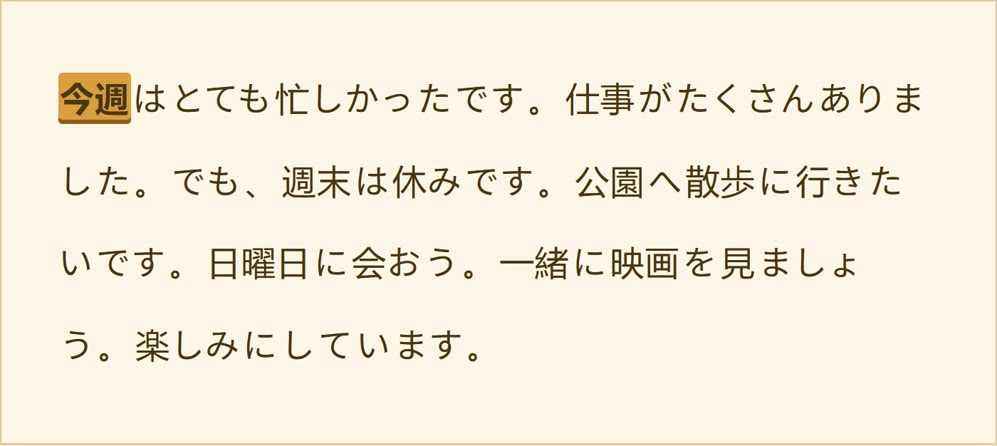
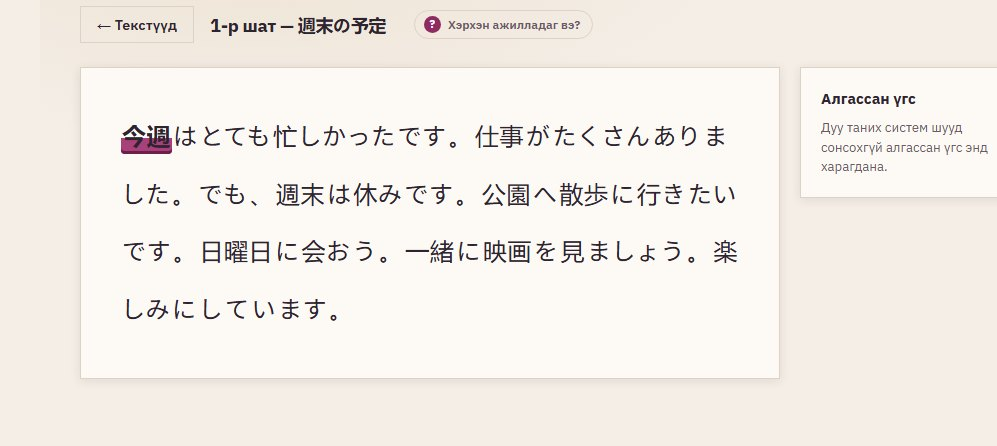
Repaint Dokkai Reader in plum instead of gold
The olive seal #5f6b1f and the amber-on-cream page are gone. The replacement hue was picked
by where the gap was rather than by taste: the six hub seals ran orange 20, red 9, teal 162,
blue 210 and violet 243, leaving 280-340 empty. Plum is also what a bound book is covered
in, which suits a reading tool.

Half the yellow was the ground, not the accent. Swapping only --accent would have left a
plum sitting on a custard page, so --bg-page came off #f7ecd2 to a near-neutral linen and
the ink, borders and shadows went plum-tinted with it.

Three files carry this colour: reading.css's token block, its --header-bg block and the
darker-contrast one, and the --seal literal on index.html's Reading tile. All three moved
together; a comment in reading.css that still named the old seal was corrected too.

images/hub/reading-enter.jpg is a screenshot of this page, ghosted in behind the seal on
hover -- so without re-shooting it the home page would show a gold screenshot behind a plum
seal. Re-taken by the same route tools/share-cards/capture-shots.js uses to reach the
passage, so it frames what their own generator picked.

images/share/reading.jpg is still the old palette and is NOT regenerated here: the two
scripts that rebuild it also rebuild every other tool's shot and card, and Facebook caches
previews, so it wants doing deliberately with a re-scrape after.

Measured, not eyeballed: every text element on the page in both themes, 0 of 44 below its
[…]

Changed region(s): [[0.0, 0.0, 1.0, 1.0], [0.0622, 0.5247, 0.8706, 0.6413], [0.0622, 0.6704, 0.4975, 0.8161]]

diff --git a/reading.css b/reading.css
@@ -34,38 +34,46 @@
    :has() here only ever matches reading.html, since .reading-main only exists there. */
 body:has(.reading-main),
 .reading-main {
-    --bg-page: #f7ecd2;
-    --bg-page: light-dark(#f7ecd2, #191410);
-    --bg-surface: #fdf6e6;
-    --bg-surface: light-dark(#fdf6e6, #221b14);
-    --bg-surface-alt: #f0e0bc;
-    --bg-surface-alt: light-dark(#f0e0bc, #2b2219);
-    --border: #e0c690;
-    --border: light-dark(#e0c690, #3d3020);
-    --border-strong: #c9a563;
-    --border-strong: light-dark(#c9a563, #5a462c);
-    --text-primary: #4a3510;
-    --text-primary: light-dark(#4a3510, #f2e7d2);
-    --text-secondary: #7a6435;
-    --text-secondary: light-dark(#7a6435, #cdbb99);
-    /* was #a08a5c: 2.85:1 behind the "How this works" label, under the 4.5 floor */
-    --text-muted: #786845;
-    --text-muted: light-dark(#786845, #a3926f);
-    --accent: #b8791f;
-    --accent: light-dark(#b8791f, #d9a03f);
-    --accent-light: #d99f3f;
-    --accent-light: light-dark(#d99f3f, #e8bd6d);
-    /* was #8f5c14: 4.12:1 on the mic and guest hints' tinted panel, just under the floor */
-    --accent-dark: #855613;
-    --accent-dark: light-dark(#855613, #e8bd6d);
-    --accent-tint: rgba(184, 121, 31, 0.16);
-    --accent-tint: light-dark(rgba(184, 121, 31, 0.16), rgba(217, 160, 63, 0.18));
+    /* "Plum cloth": a bound-book palette -- near-neutral linen paper, plum ink, one aubergine
+       accent. It replaced a warm-gold/olive scheme the site's author called piss yellow, and the
+       hue was chosen by where the gap was rather than by taste: the six hub seals ran orange 20,
+       red 9, teal 162, blue 210 and violet 243, leaving 280-340 empty. The paper also came off
+       #f7ecd2 to a near-neutral linen -- half the yellow was the GROUND, not the accent, and
+       swapping only the accent would have left a plum sitting on a custard page. */
+    --bg-page: #f4eee7;
+    --bg-page: light-dark(#f4eee7, #171017);
+    --bg-surface: #fdfaf6;
+    --bg-surface: light-dark(#fdfaf6, #201822);
+    --bg-surface-alt: #eae1d6;
+    --bg-surface-alt: light-dark(#eae1d6, #2a1f2c);
+    --border: #ded2c5;
+    --border: light-dark(#ded2c5, #3b2c3c);
+    --border-strong: #bda894;
+    --border-strong: light-dark(#bda894, #5a4459);
+    --text-primary: #2e2430;
+    --text-primary: light-dark(#2e2430, #f2e7ee);
+    --text-secondary: #5b4a57;
+    --text-secondary: light-dark(#5b4a57, #cdb9c6);
+    /* Both of this token's old values sat just under 4.5 before they were raised; measured
+       again on the new grounds: 5.05-6.28 light, 5.35-6.34 dark. */
+    --text-muted: #6b5866;
+    --text-muted: light-dark(#6b5866, #a391a0);
+    --accent: #8f2b63;
+    --accent: light-dark(#8f2b63, #d471a6);
+    --accent-light: #a8407a;
+    --accent-light: light-dark(#a8407a, #e894c0);
+    --accent-dark: #6b1f4a;
+    --accent-dark: light-dark(#6b1f4a, #e894c0);
+    --accent-tint: rgba(143, 43, 99, 0.14);
+    --accent-tint: light-dark(rgba(143, 43, 99, 0.14), rgba(212, 113, 166, 0.18));
+    /* --accent-light is the LIGHTEST stop, so it is the one the cream label has to clear: 5.49.
+       Grammar Connect shipped a 2.13:1 button by checking only the dark stop. */
     --accent-gradient: linear-gradient(135deg, var(--accent-light), var(--accent));
     --accent-gradient-hover: linear-gradient(135deg, var(--accent), var(--accent-dark));
-    --shadow-sm: 0 2px 10px rgba(74, 53, 16, 0.10);
-    --shadow-sm: 0 2px 10px light-dark(rgba(74, 53, 16, 0.10), rgba(0, 0, 0, 0.45));
-    --shadow-md: 0 14px 32px rgba(74, 53, 16, 0.18);
-    --shadow-md: 0 14px 32px light-dark(rgba(74, 53, 16, 0.18), rgba(0, 0, 0, 0.55));
+    --shadow-sm: 0 2px 10px rgba(46, 36, 48, 0.10);
+    --shadow-sm: 0 2px 10px light-dark(rgba(46, 36, 48, 0.10), rgba(0, 0, 0, 0.45));
+    --shadow-md: 0 14px 32px rgba(46, 36, 48, 0.18);
+    --shadow-md: 0 14px 32px light-dark(rgba(46, 36, 48, 0.18), rgba(0, 0, 0, 0.55));
 }
 
 body:has(.reading-main) {
@@ -763,7 +771,8 @@ body:has(.reading-main) .container {
 
 /* ---------------------------------------------------------------------------------------------
    Masthead and footer carry this tool's own colour: exactly the seal index.html gives this page
-   (#5f6b1f), so the button pressed on the home page and the page it opens are the same colour.
+   (#6b1f52), so the button pressed on the home page and the page it opens are the same colour.
+   Changing one means changing the other in the same commit, or they drift apart silently.
    This used to be that seal DEEPENED to 68%, which is precisely what made them not match.
 
    The ground is therefore fixed now, so everything set on it had to move instead. --header-accent
@@ -780,17 +789,17 @@ body:has(.reading-main) .container {
    --------------------------------------------------------------------------------------------- */
 .site-header-wrap,
 .site-footer {
-    --header-bg: #5f6b1f;
-    --header-bg-elevated: #657128;
-    --header-accent: #f4e1bc;
-    --header-accent-dark: #d2c2a2;
-    --header-text-muted: #ece6d8;
-    --header-accent-tint: rgba(244, 225, 188, 0.18);
-    --header-border: rgba(244, 225, 188, 0.36);
+    --header-bg: #6b1f52;
+    --header-bg-elevated: #7a2a5f;
+    --header-accent: #f6dcea;
+    --header-accent-dark: #cfa7bd;
+    --header-text-muted: #f0e2ea;
+    --header-accent-tint: rgba(246, 220, 234, 0.18);
+    --header-border: rgba(246, 220, 234, 0.36);
 }
 
 html[data-contrast="darker"] .site-header-wrap,
 html[data-contrast="darker"] .site-footer {
-    --header-bg: #373e12;
-    --header-bg-elevated: #5f6b1f;
+    --header-bg: #3e1230;
+    --header-bg-elevated: #6b1f52;
 }

diff --git a/index.html b/index.html
@@ -457,7 +457,7 @@
                             </span>
                         </a>
 
-                        <a class="hub-seal" href="reading.html" style="--seal:#5f6b1f">
+                        <a class="hub-seal" href="reading.html" style="--seal:#6b1f52">
                             <span class="hub-seal-shot" aria-hidden="true" style="background-image:url(images/hub/reading-enter.jpg)"></span>
                             <span class="hub-seal-in">
                                 <svg class="hub-seal-ico" aria-hidden="true"><use href="#t-reader"/></svg>

diff --git a/sw.js b/sw.js
@@ -18,7 +18,7 @@
 // stale-while-revalidate, so it serves the cached copy first and only refreshes behind it --
 // without a bump, a returning PWA user runs the previous version of a fixed file for one more
 // visit. Whether that matters is a judgement call; for a correctness fix it generally does.
-const CACHE_VERSION = 'khan-japanese-v186';
+const CACHE_VERSION = 'khan-japanese-v187';
 
 const APP_SHELL = [
     './',

diff --git a/CLAUDE.md b/CLAUDE.md
@@ -45,8 +45,9 @@ at all, and `reset-password.html`); `credits.html` itself carries the masthead+f
 **Their colour is per-tool, though** (2026-10-24): each of the six tool pages puts
 `--header-bg` on `.site-header-wrap`/`.site-footer` set to **exactly the `--seal` that
 `index.html` gives that page** -- origins `#a8431f`, game `#5a55b0`, phonetics `#1f6b52`,
-grammar `#b0432f`, reading `#5f6b1f`, dictionary `#23405f` -- so the button pressed on the home
-page and the page it opens are the same colour. Four of them already did this but with the seal
+grammar `#b0432f`, reading `#6b1f52`, dictionary `#23405f` -- so the button pressed on the home
+page and the page it opens are the same colour. The seal and the page's own `--header-bg` are
+two separate literals: change one without the other and they drift apart silently. Four of them already did this but with the seal
 *deepened to 68%*, which is what made them not match, and game/origins had no block at all.
 **The ground is now fixed, so the text on it had to move**: `--header-accent` is TEXT in nine
 places in `style.css` (footer links and headings, nav hover, the account panel's items) and the
@@ -166,8 +167,8 @@ see `tutorial.js`'s `THEME_MAP`, which exists for exactly this reason. CSS custo
 means every `var(--x)` in that file picks up the page-local value automatically. `about.css` is
 the one exception — it doesn't load `style.css` at all, so its tokens live on a real `:root`
 instead of being scoped to its wrapper class. Current palette: hub deep wine/gold (dark),
-phonetics light jade/copper, reading warm gold (light), grammar its own accent, dictionary its
-own accent, dashboard cool slate/blue, game dark hanafuda violet/gold, about forest-teal,
+phonetics light jade/copper, reading plum-on-linen (light), grammar its own accent, dictionary
+its own accent, dashboard cool slate/blue, game dark hanafuda violet/gold, about forest-teal,
 origins warm paper with this page's own hub-seal colour (see Kana Origins below).
 **Each page's colors and layout are deliberately distinct — don't reintroduce a shared template
 between them.**
@@ -977,6 +978,25 @@ score already kept -- which is why the fix is to raise auth, not to close the po
 Proved both ways with the same spec, per the two-builds rule: on the old build Playwright's
 real `.click()` on the email field times out, on the new one it types. A z-index comparison
 alone would not have shown it, and neither would a screenshot of the dialog on its own.
+
+**Dokkai Reader went from warm gold to "plum cloth"** (2026-10-27). The old scheme -- olive
+seal `#5f6b1f`, amber accent on a `#f7ecd2` ground -- was called piss yellow, and the hue that
+replaced it was chosen by where the gap WAS rather than by taste: the six seals ran orange 20,
+red 9, teal 162, blue 210 and violet 243, leaving 280-340 empty. Plum also suits the tool, being
+what a bound book is covered in.
+**Half the yellow was the GROUND, not the accent.** Swapping only `--accent` would have left a
+plum sitting on a custard page, so `--bg-page` came off `#f7ecd2` to a near-neutral linen and
+the ink, borders and shadows went plum-tinted with it.
+**Three files carry this colour and all three had to move together**: `reading.css`'s token
+block, its `--header-bg` block (plus the `data-contrast="darker"` one), and the `--seal` literal
+on `index.html`'s Reading tile.
+**`images/hub/reading-enter.jpg` is a SCREENSHOT of this page**, ghosted in behind the seal on
+hover -- so a palette change makes the home page show a gold screenshot behind a plum seal. It
+was re-shot, by the route `tools/share-cards/capture-shots.js` uses to reach the passage.
+**`images/share/reading.jpg` is still the old palette.** Regenerating it is
+`node tools/share-cards/capture-shots.js` then `node tools/share-cards/make-cards.js`, but both
+rebuild EVERY tool's shot and card, and Facebook caches previews -- so it wants doing
+deliberately, with a re-scrape in the Sharing Debugger after.
 
 **Stacking contexts, not z-index, decide what's on top.** `.container` (`style.css`) and
 `.site-footer` are both `position: relative; z-index: 2` — an exact tie broken by DOM order, so
